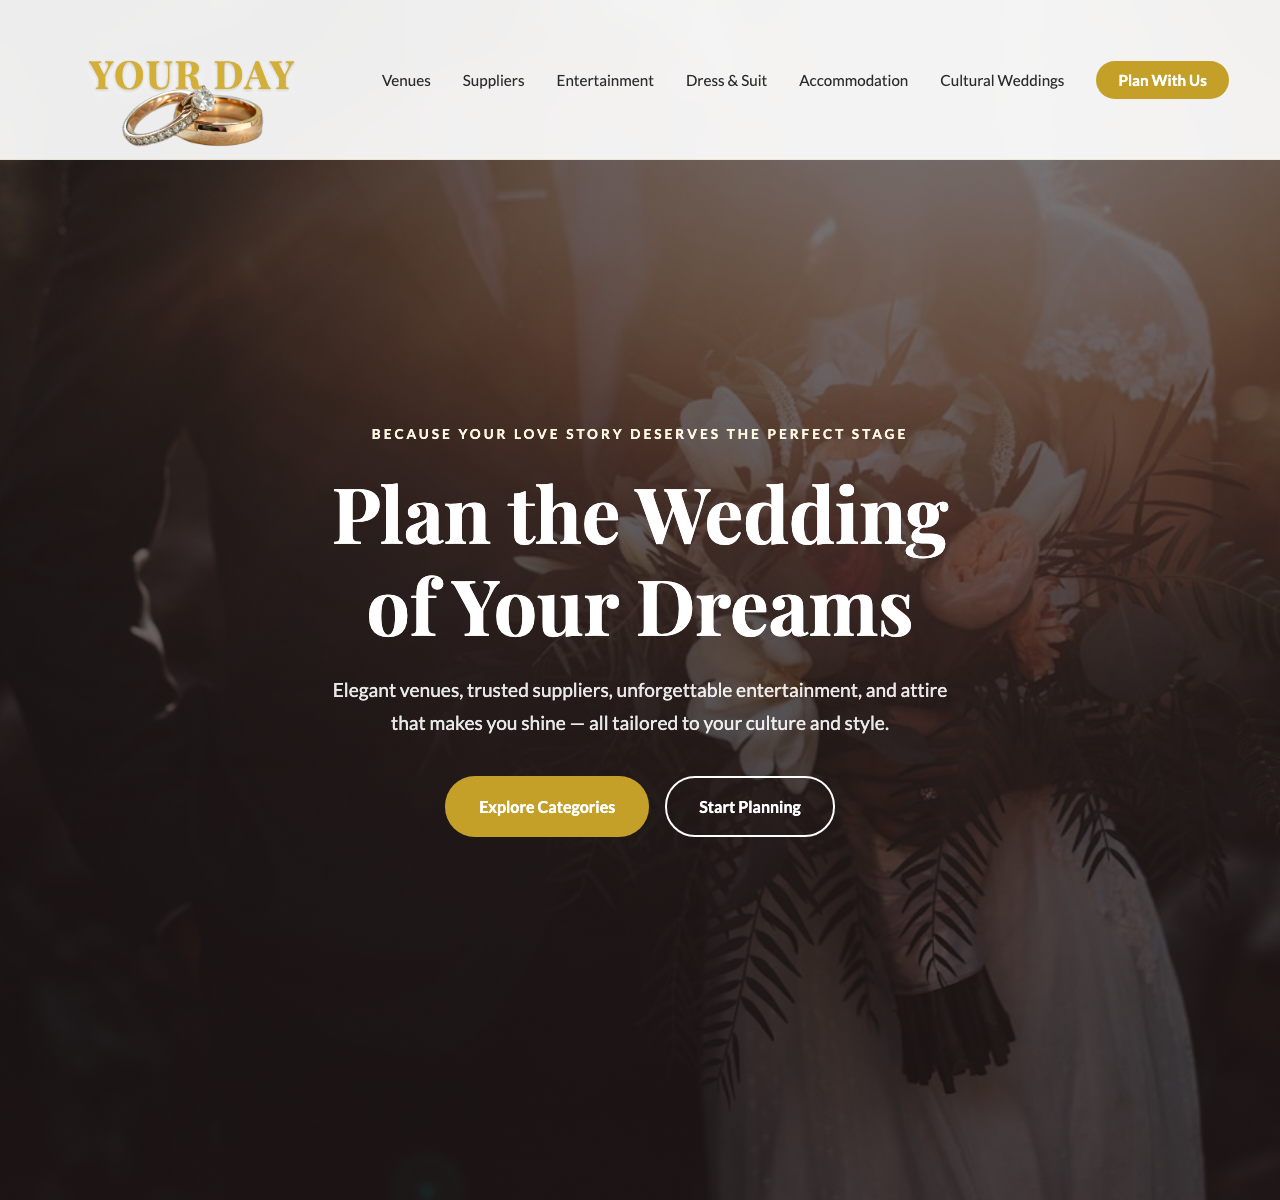
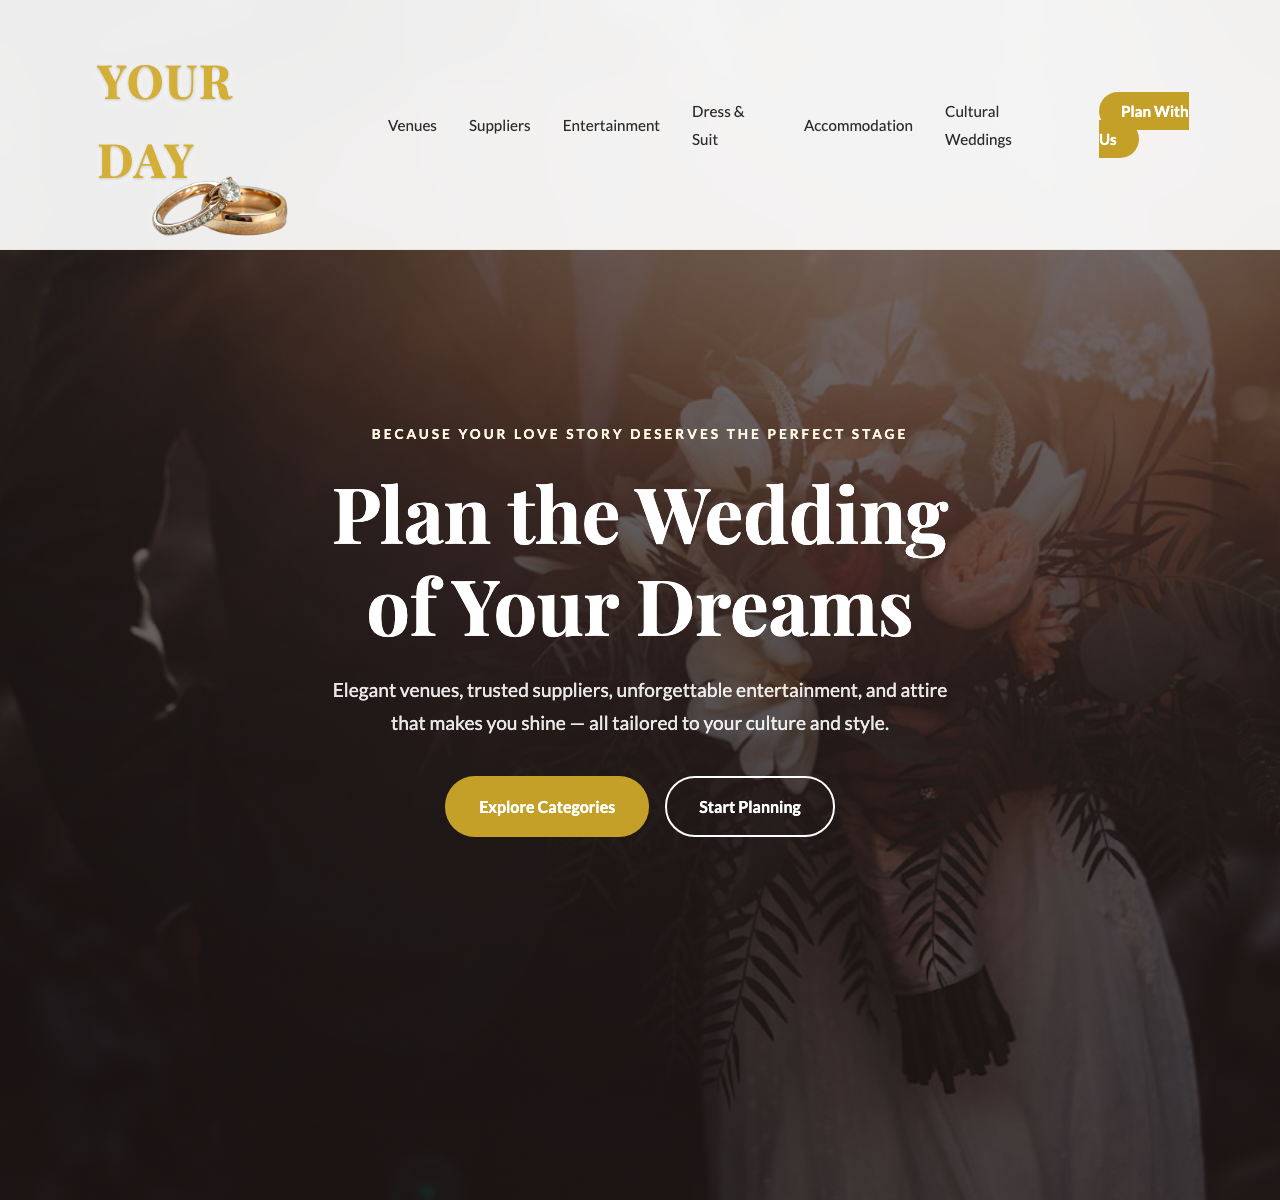
Bigger YOUR DAY text, smaller rings underneath

Changed region(s): [[0.0, 0.0308, 1.0, 0.2158]]

diff --git a/styles.css b/styles.css
@@ -107,7 +107,7 @@ img {
 
 .logo {
   font-family: 'Playfair Display', serif;
-  font-size: 2.4rem;
+  font-size: 2.9rem;
   font-weight: 700;
   color: var(--gold);
   letter-spacing: 2px;
@@ -115,19 +115,19 @@ img {
   display: inline-flex;
   align-items: center;
   justify-content: center;
-  padding: 0.6em 1em 0.9em 1em;
+  padding: 0.5em 1em 0.7em 1em;
   transition: var(--transition);
   text-shadow: 0 2px 10px rgba(255, 255, 255, 0.8), 0 1px 3px rgba(0, 0, 0, 0.25);
 }
 
 .logo-rings {
   position: absolute;
-  bottom: -0.3em;
+  bottom: -0.2em;
   left: 50%;
   transform: translateX(-50%);
-  width: 4.6em;
-  height: 1.9em;
-  background-image: url('images/user-rings-cropped.png?v=1');
+  width: 3.8em;
+  height: 1.5em;
+  background-image: url('images/user-rings-cropped.png?v=2');
   background-size: contain;
   background-position: center;
   background-repeat: no-repeat;

diff --git a/index.html b/index.html
@@ -7,7 +7,7 @@
   <link rel="preconnect" href="https://fonts.googleapis.com">
   <link rel="preconnect" href="https://fonts.gstatic.com" crossorigin>
   <link href="https://fonts.googleapis.com/css2?family=Playfair+Display:ital,wght@0,400;0,600;0,700;1,400&family=Lato:wght@300;400;700&display=swap" rel="stylesheet">
-  <link rel="stylesheet" href="styles.css?v=11">
+  <link rel="stylesheet" href="styles.css?v=12">
 </head>
 <body>
   <nav class="navbar">
